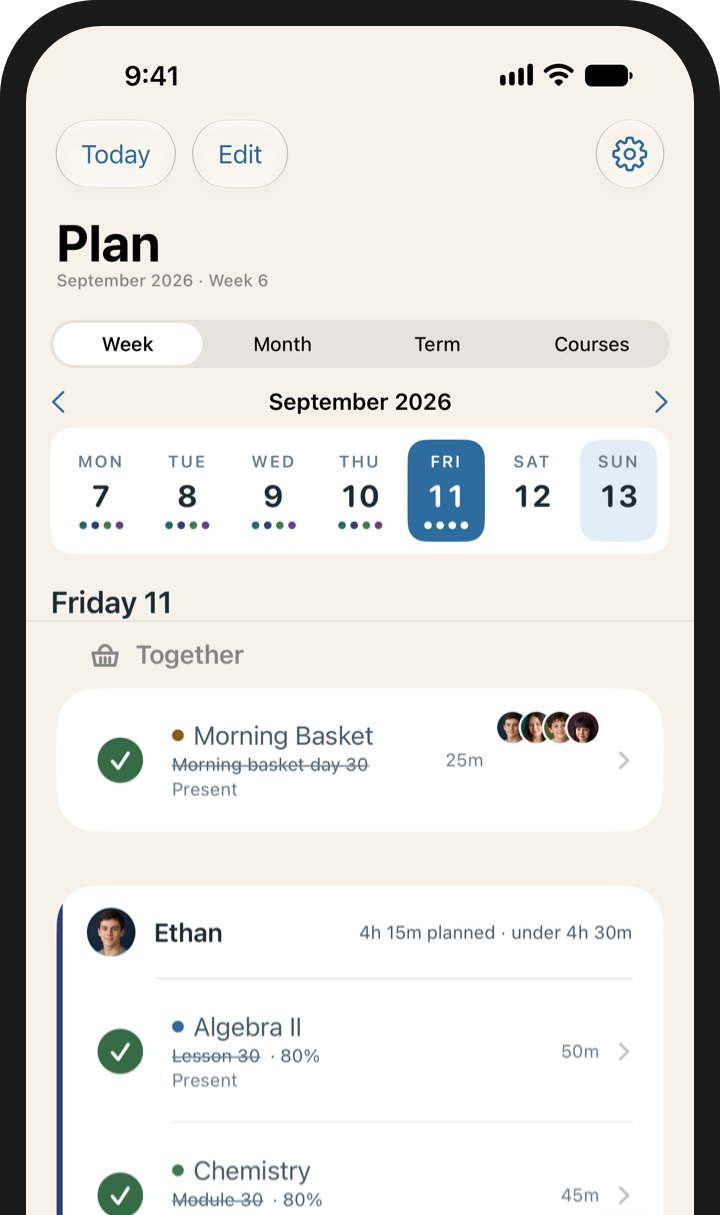
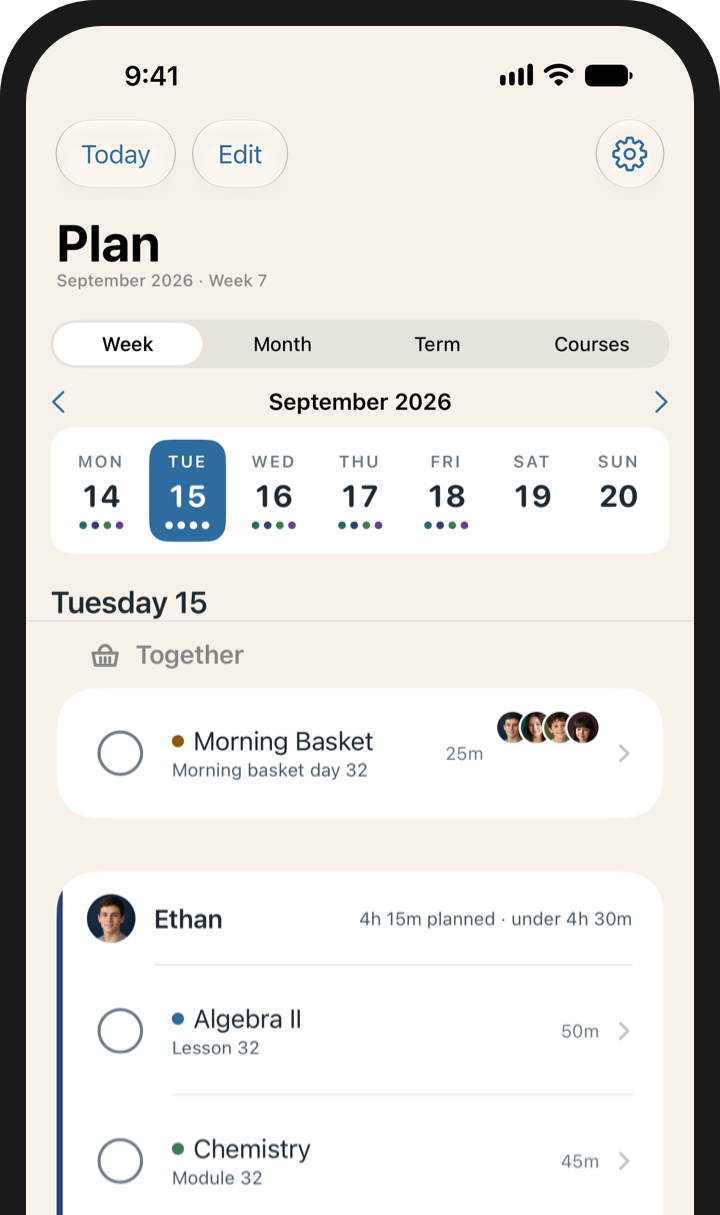
Student Mode and Plan shots retaken on a school day; beta guide covers the mid-year start

diff --git a/beta.html b/beta.html
@@ -65,7 +65,7 @@
     <ol>
       <li><strong>Install TestFlight</strong>, Apple's free app for trying apps before release, from the App Store.</li>
       <li><strong>Open our link</strong> from the email we send you and tap Install. Updates arrive through TestFlight about once a week; it will tell you.</li>
-      <li><strong>Set up your school</strong> the way you'd really run it: your state, your school year, your students, and their courses. Then plan a week and check things off each day.</li>
+      <li><strong>Set up your school</strong> the way you'd really run it: your state, your school year, your students, and their courses. You are joining mid-year, so on the year screen leave "Mark the school days since… present" on: the weeks you already did count, and lessons plan from today. If Records shows something that was due before you started, answer it once: Sent before I started, or Dismiss. Then plan a week and check things off each day.</li>
       <li><strong>Try what your state asks for.</strong> Open Records, look at the deadlines it lists for your state, and generate the attendance report, a report card, and, for a high-schooler, the transcript. Read them as if you were handing them to an evaluator.</li>
       <li><strong>Hand a child Student Mode</strong> for a day and see what they make of it.</li>
       <li><strong>Tell us everything.</strong> Confusing, wrong, slow, or just "I expected this somewhere else" all count. In TestFlight, take a screenshot and it offers to send it to us with your device details; or email <a href="mailto:support@myhomeschoolscribe.com?subject=Beta%20feedback">support@myhomeschoolscribe.com</a>. Please cover your children's names in screenshots.</li>
